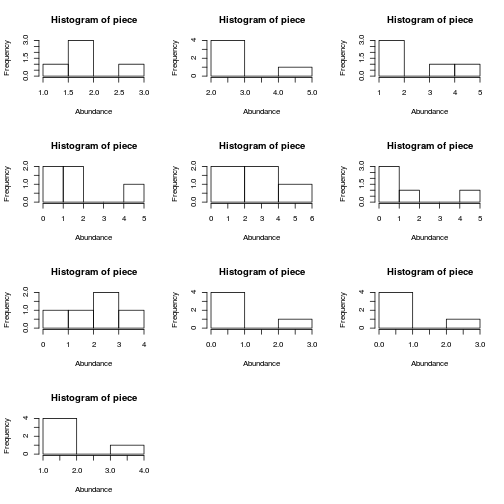
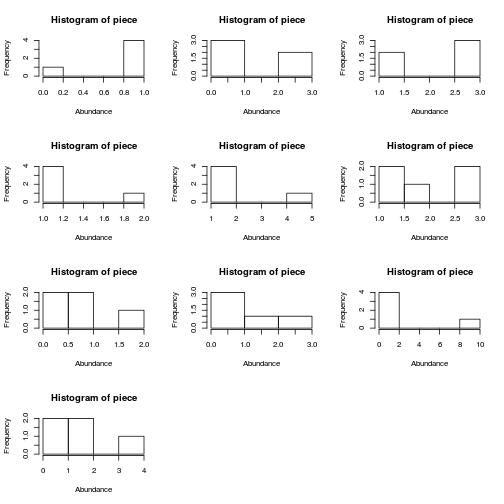
final pres version

diff --git a/Session_20170922/apply_presentation.md b/Session_20170922/apply_presentation.md
@@ -85,7 +85,7 @@ apply(some_array, 1, sum)
 ```
 
 ```
-[1] -1.803897 -3.425442 -0.615351 -3.598833 -2.784215
+[1] -3.976461 -1.198053 -1.839165 -2.699658  4.229726
 ```
 
 apply
@@ -99,7 +99,7 @@ apply(some_array, 1, foo)
 ```
 
 ```
-[1]  3.362949  7.256423 11.270784  3.430751  4.138546
+[1]  3.5954829  1.5825104  0.8070861 12.3461965  3.7857348
 ```
 
 Or we can use anonymous function:
@@ -109,7 +109,7 @@ apply(some_array, 1, function(x) sum(x^2))
 ```
 
 ```
-[1]  3.362949  7.256423 11.270784  3.430751  4.138546
+[1]  3.5954829  1.5825104  0.8070861 12.3461965  3.7857348
 ```
 
 
@@ -121,11 +121,11 @@ Time for some exercise, see **apply_exo.Rmd** file, we will use a standard commu
 
 ```
     Sp1 Sp2 Sp3 Sp4 Sp5 Sp6 Sp7 Sp8 Sp9 Sp10
-Pl1   2   3   5   5   4   2   3   1   0    1
-Pl2   2   5   4   0   3   0   0   3   1    2
-Pl3   1   2   2   1   1   1   2   1   1    2
-Pl4   3   2   1   2   0   5   4   0   0    1
-Pl5   2   2   2   2   6   1   3   0   3    4
+Pl1   1   3   1   1   2   3   1   0  10    2
+Pl2   1   0   3   2   2   1   1   0   0    0
+Pl3   1   3   3   1   1   3   2   2   1    4
+Pl4   1   0   3   1   5   1   0   1   2    1
+Pl5   0   0   1   1   2   2   0   3   2    2
 ```
 
 l(ist)apply
@@ -133,15 +133,15 @@ l(ist)apply
 
 Official definition:
 
-lapply returns a **list** of the same length as X, each element of which is the result of **applying FUN** to the corresponding element of X.
+lapply returns a **list** of the same length as X, each element of which is the result of **applying some function** to the corresponding element of X.
 
 ...
 
-lapply(X, FUN, ...)
+**lapply( some _object , some_function , some_arguments )**
 
 ...
 
-X a vector (atomic or list) or an expression object. Other objects (including classed objects) will be **coerced** by base::as.list.
+some_object is a vector (atomic or list) or an expression object. Other objects (including classed objects) will be **coerced** by base::as.list.
 
 l(ist)apply
 ========================================================
@@ -158,7 +158,7 @@ lapply in action:
 [1] 1 1 1 1 1
 
 [[2]]
-[1]  2.63410350 -0.37467145 -1.74800809 -0.70347132  0.05332487
+[1]  0.1684733  0.7683894  0.8603258 -0.3874114 -0.2373674
 ```
 
 ```r
@@ -170,7 +170,7 @@ lapply(some_list, max)
 [1] 1
 
 [[2]]
-[1] 2.634103
+[1] 0.8603258
 ```
 
 l(ist)apply
@@ -185,11 +185,11 @@ lapply in action:
 
 ```
            X1         X2
-1 0.600396876  0.0510465
-2 0.935327944  0.5205185
-3 0.932710486 -1.9917122
-4 0.230866797  1.2391772
-5 0.003063262  0.7740476
+1 0.761959070 -1.4775511
+2 0.775471393 -0.3492960
+3 0.909089487 -1.1267207
+4 0.807222017 -0.2170999
+5 0.003858022  0.5277255
 ```
 
 ```r
@@ -198,10 +198,10 @@ lapply(some_df, mean)
 
 ```
 $X1
-[1] 0.5404731
+[1] 0.65152
 
 $X2
-[1] 0.1186155
+[1] -0.5285884
 ```
 
 l(ist)apply
@@ -217,10 +217,10 @@ lapply(some_df, function(x) c(x[1] + 1, x[2] + 2))
 
 ```
 $X1
-[1] 1.600397 2.935328
+[1] 1.761959 2.775471
 
 $X2
-[1] 1.051046 2.520519
+[1] -0.4775511  1.6507040
 ```
 
 l(ist)apply
@@ -235,10 +235,10 @@ lapply(some_df, function(x) rnorm(5, mean(x), sd(x)))
 
 ```
 $X1
-[1] -0.3143578  0.4769397  0.1382514 -0.4189297  1.5732180
+[1] 0.2225272 0.1204254 1.1167974 1.2638007 0.5356777
 
 $X2
-[1] -0.71026991  2.00728401  0.04808783 -0.37558987  0.95519969
+[1] -0.08782976 -1.67848022  0.78619973 -1.18388854 -0.28138969
 ```
 
 l(ist)apply
@@ -248,15 +248,15 @@ One can pass **argument** to the function by naming them:
 
 
 ```r
-lapply(round(some_df, 2), paste, collapse = "-")
+lapply(some_df, paste, collapse = "-")
 ```
 
 ```
 $X1
-[1] "0.6-0.94-0.93-0.23-0"
+[1] "0.761959069874138-0.77547139278613-0.909089486580342-0.807222017319873-0.00385802169330418"
 
 $X2
-[1] "0.05-0.52--1.99-1.24-0.77"
+[1] "-1.47755112889918--0.349296046762842--1.12672066551953--0.217099934067969-0.527725536979764"
 ```
 
 l(ist)apply
@@ -296,6 +296,8 @@ sapply(mtcars, mean)
       qsec         vs         am       gear       carb 
  17.848750   0.437500   0.406250   3.687500   2.812500 
 ```
+
+Official doc: sapply is a user-friendly version and wrapper of lapply by default returning a vector, matrix or, if simplify = "array", an array if **appropriate**
 
 s(implify)apply
 ========================================================
@@ -538,12 +540,12 @@ adply(comm, 1, function(x) round(x/max(x), 2))
 ```
 
 ```
-   X1  Sp1  Sp2  Sp3  Sp4 Sp5  Sp6 Sp7 Sp8 Sp9 Sp10
-1 Pl1 0.40 0.60 1.00 1.00 0.8 0.40 0.6 0.2 0.0 0.20
-2 Pl2 0.40 1.00 0.80 0.00 0.6 0.00 0.0 0.6 0.2 0.40
-3 Pl3 0.50 1.00 1.00 0.50 0.5 0.50 1.0 0.5 0.5 1.00
-4 Pl4 0.60 0.40 0.20 0.40 0.0 1.00 0.8 0.0 0.0 0.20
-5 Pl5 0.33 0.33 0.33 0.33 1.0 0.17 0.5 0.0 0.5 0.67
+   X1  Sp1  Sp2  Sp3  Sp4  Sp5  Sp6  Sp7 Sp8  Sp9 Sp10
+1 Pl1 0.10 0.30 0.10 0.10 0.20 0.30 0.10 0.0 1.00 0.20
+2 Pl2 0.33 0.00 1.00 0.67 0.67 0.33 0.33 0.0 0.00 0.00
+3 Pl3 0.25 0.75 0.75 0.25 0.25 0.75 0.50 0.5 0.25 1.00
+4 Pl4 0.20 0.00 0.60 0.20 1.00 0.20 0.00 0.2 0.40 0.20
+5 Pl5 0.00 0.00 0.33 0.33 0.67 0.67 0.00 1.0 0.67 0.67
 ```
 
 plyr
@@ -559,39 +561,39 @@ alply(comm, 2, quantile, probs = c(0.25, 0.5, 0.75))
 ```
 $`1`
 25% 50% 75% 
-  2   2   2 
+  1   1   1 
 
 $`2`
 25% 50% 75% 
-  2   2   3 
+  0   0   3 
 
 $`3`
 25% 50% 75% 
-  2   2   4 
+  1   3   3 
 
 $`4`
 25% 50% 75% 
-  1   2   2 
+  1   1   1 
 
 $`5`
 25% 50% 75% 
-  1   3   4 
+  2   2   2 
 
 $`6`
 25% 50% 75% 
-  1   1   2 
+  1   2   3 
 
 $`7`
 25% 50% 75% 
-  2   3   3 
+  0   1   1 
 
 $`8`
 25% 50% 75% 
-  0   1   1 
+  0   1   2 
 
 $`9`
 25% 50% 75% 
-  0   1   1 
+  1   2   2 
 
 $`10`
 25% 50% 75% 
@@ -639,15 +641,15 @@ a_ply(comm, 1, function(x) print(summary(x)))
 
 ```
    Min. 1st Qu.  Median    Mean 3rd Qu.    Max. 
-   0.00    1.25    2.50    2.60    3.75    5.00 
+   0.00    1.00    1.50    2.40    2.75   10.00 
    Min. 1st Qu.  Median    Mean 3rd Qu.    Max. 
-   0.00    0.25    2.00    2.00    3.00    5.00 
+   0.00    0.00    1.00    1.00    1.75    3.00 
    Min. 1st Qu.  Median    Mean 3rd Qu.    Max. 
-    1.0     1.0     1.0     1.4     2.0     2.0 
+    1.0     1.0     2.0     2.1     3.0     4.0 
    Min. 1st Qu.  Median    Mean 3rd Qu.    Max. 
-   0.00    0.25    1.50    1.80    2.75    5.00 
+   0.00    1.00    1.00    1.50    1.75    5.00 
    Min. 1st Qu.  Median    Mean 3rd Qu.    Max. 
-    0.0     2.0     2.0     2.5     3.0     6.0 
+   0.00    0.25    1.50    1.30    2.00    3.00 
 ```
 
 
